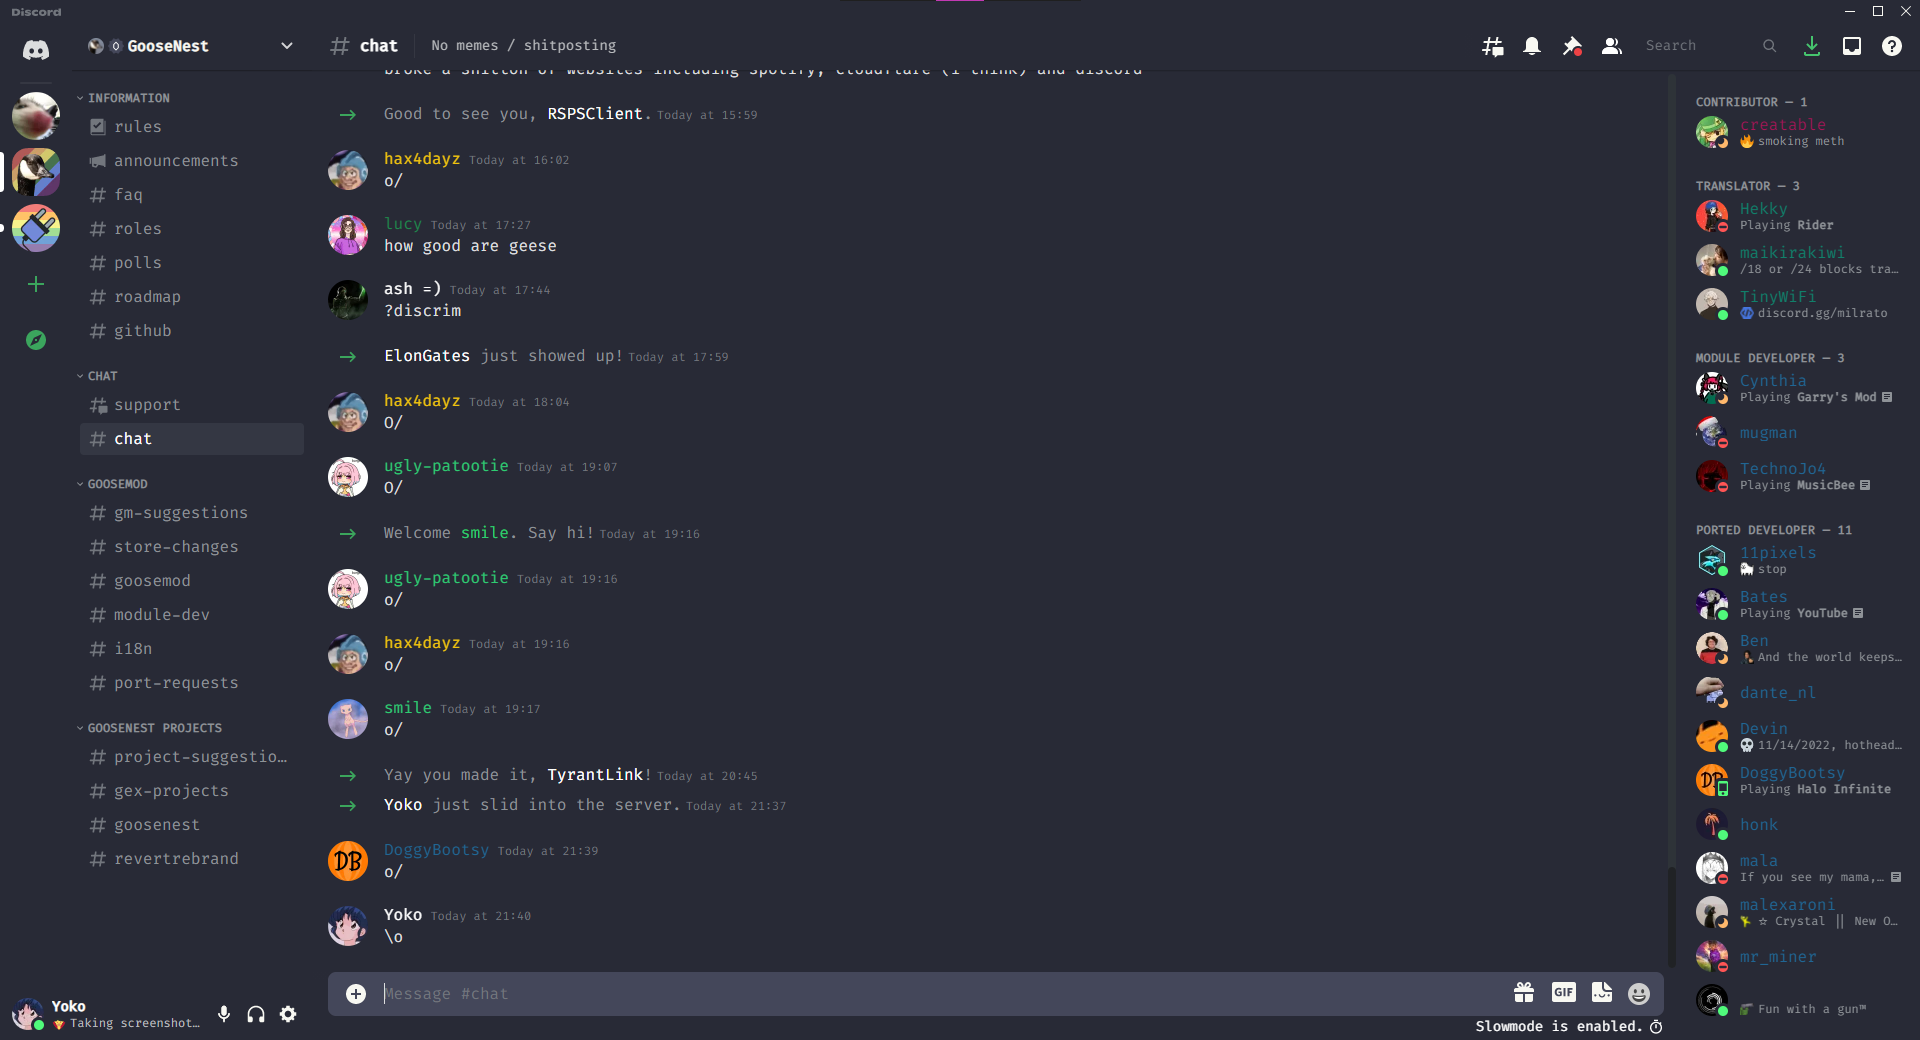
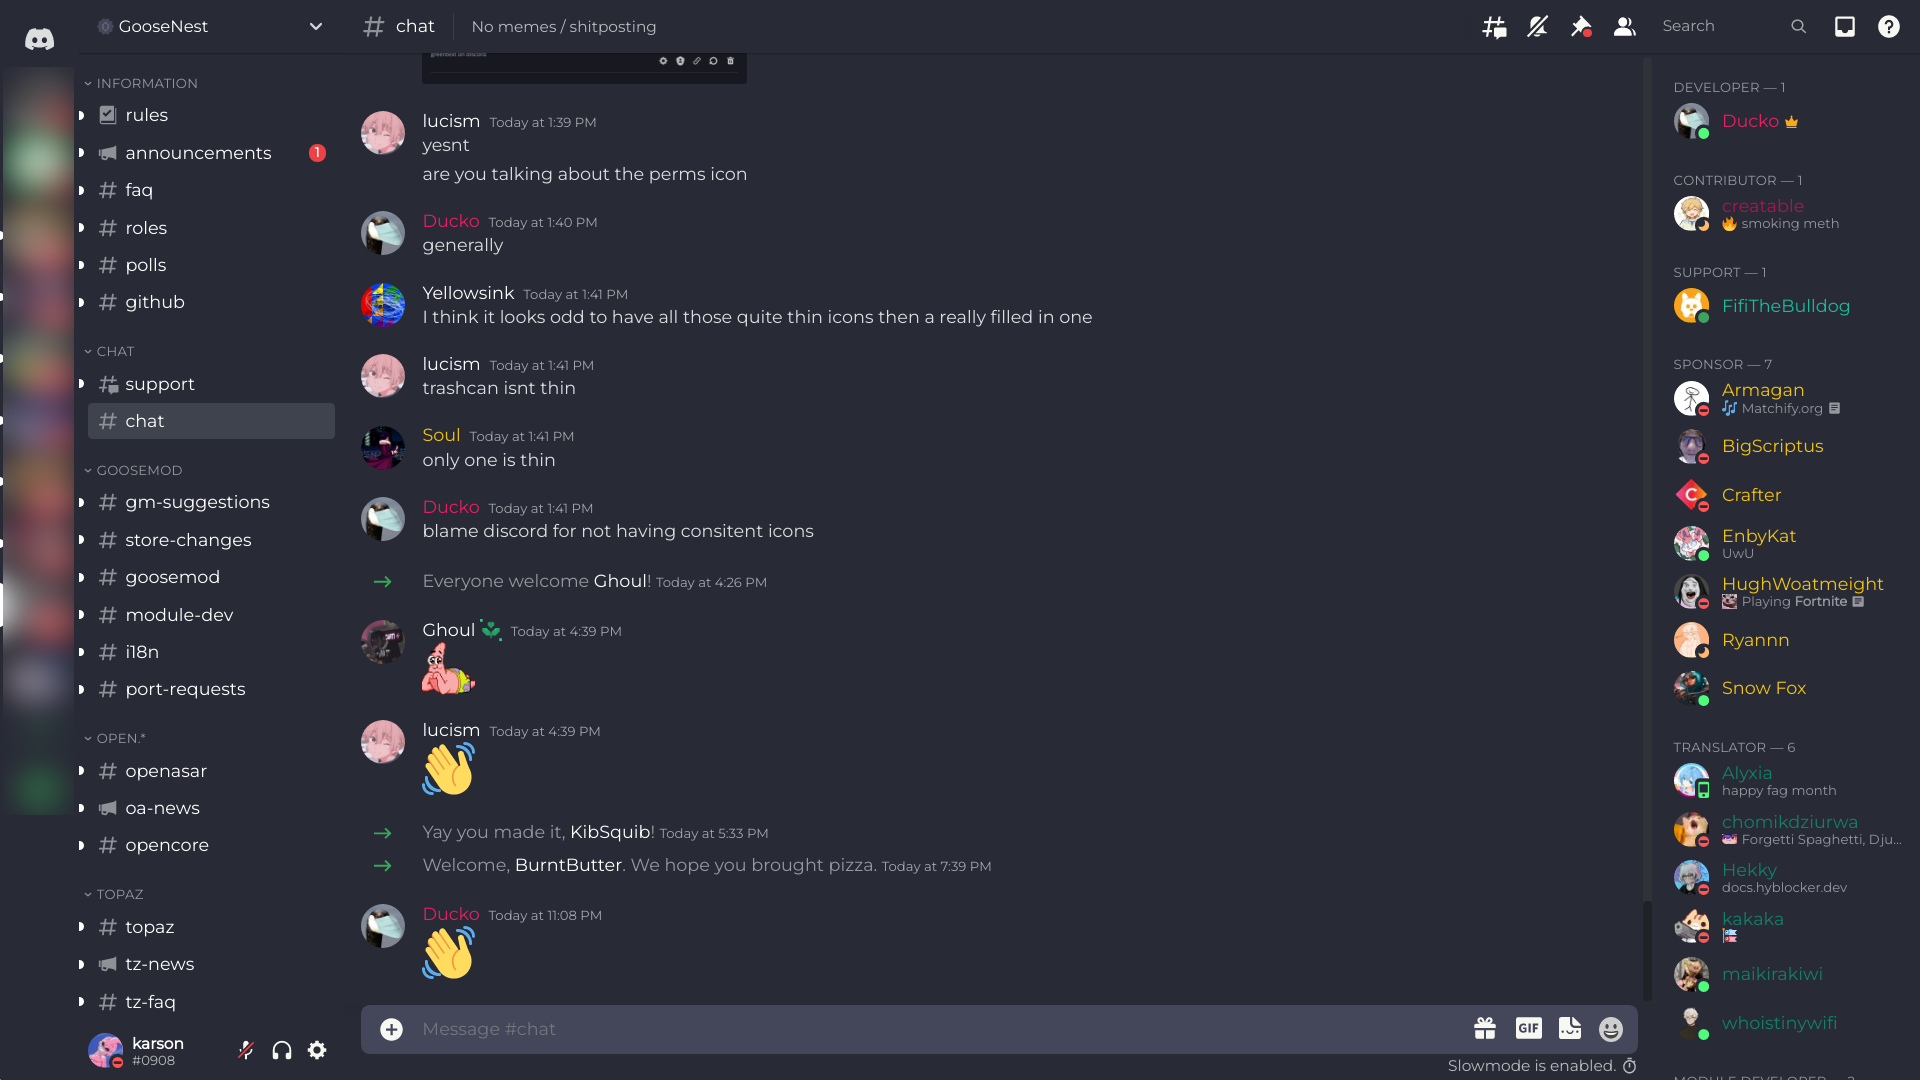
added montserrat font

diff --git a/Drakula.css b/Drakula.css
@@ -23,8 +23,8 @@ Drakula is licensed under the MIT license, you can read more about it at mit-lic
 */
 
 
-/* Fira Code font itself */
-@import url('https://fonts.googleapis.com/css2?family=Fira+Code&display=swap');
+/* Montserrat font itself */
+@import url('https://fonts.googleapis.com/css2?family=Montserrat&display=swap');
 
 
 :root {
@@ -120,7 +120,7 @@ span.hljs-meta-string {
 /* Extra Shizz */
 
 * {
-  font-family: "Fira Code" !important;
+  font-family: "Montserrat" !important;
 }
 
 .unread-1xRYoj {
@@ -597,4 +597,3 @@ a[href^="https://"] {
 /* Thanks to everyone who contributed their CSS Snipets and Themes for this theme, ik i'll never be able to credit you without being cringe but hey! Atleast this footnote serves of something.... right? */
 
 /* Thanks for everything, it was fun to work on this. -C69 */
-

diff --git a/README.md b/README.md
@@ -16,7 +16,7 @@ Drakula is a fork of [Zeno Rocha's Dracula BetterDiscord theme](https://github.c
 # Added modifications
 The following mods to Discord have been added for your own pleasure:
 
-1. Change default font to Fira Code
+1. Change default font to Montserrat 
 2. Change default status badge thingy colours
 3. General UI colour changes
 4. Code Blocks have proper Synthax Highlighting

diff --git a/Changelog.md b/Changelog.md
@@ -1,3 +1,6 @@
+# Forked from Drakula 3.2
+- Different font
+
 # v3.2 - See You Space Cowboy (LTS Release)
 - Added a proper comment header to the .css file
 - Added a snippet that removes the custom profile colour thing (doesn't work if there is an image or GIF)
